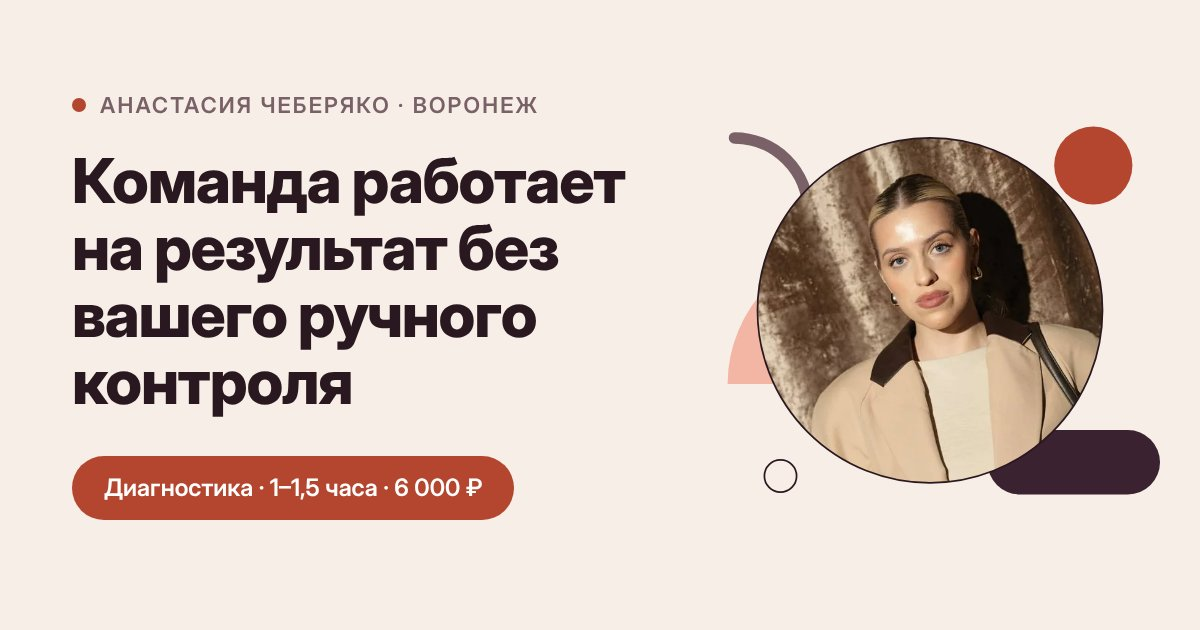
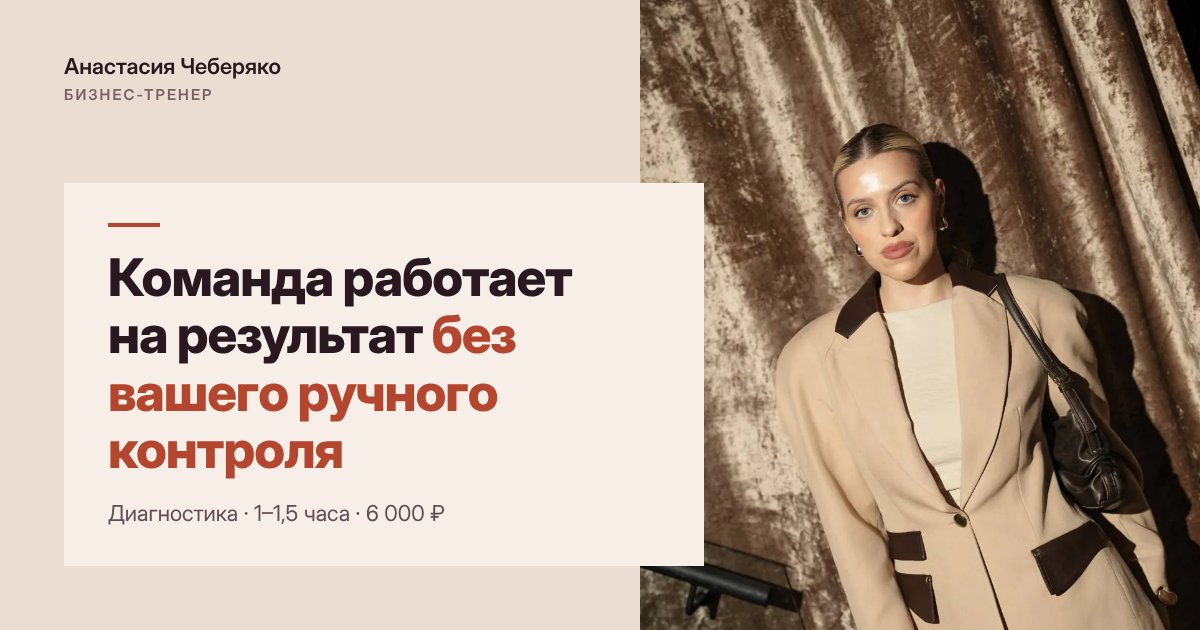
Add files via upload

diff --git a/index.html b/index.html
@@ -3,7 +3,7 @@
 <head>
 <meta charset="utf-8">
 <meta name="viewport" content="width=device-width, initial-scale=1">
-<title>Анастасия Чеберяко — бизнес-тренер, Воронеж</title>
+<title>Анастасия Чеберяко — бизнес-тренер</title>
 <meta name="description" content="Команда работает на результат без вашего ручного контроля. Обучение, стандарты и инструменты управления. Диагностика 1–1,5 часа, 6 000 ₽.">
 <link rel="canonical" href="https://cheberyako.github.io/">
 <meta name="theme-color" content="#F6EEE7">
@@ -12,7 +12,7 @@
 <meta property="og:type" content="website">
 <meta property="og:locale" content="ru_RU">
 <meta property="og:site_name" content="Анастасия Чеберяко">
-<meta property="og:title" content="Анастасия Чеберяко — бизнес-тренер, Воронеж">
+<meta property="og:title" content="Анастасия Чеберяко — бизнес-тренер">
 <meta property="og:description" content="Команда работает на результат без вашего ручного контроля. Обучение, стандарты и инструменты управления. Диагностика 1–1,5 часа, 6 000 ₽.">
 <meta property="og:url" content="https://cheberyako.github.io/">
 <meta property="og:image" content="https://cheberyako.github.io/og-cover.jpg">
@@ -71,8 +71,6 @@
   /* 1. Первый экран */
   main{padding-top:clamp(20px,5vw,56px)}
   .hero{display:grid;gap:24px;align-items:center}
-  .hero-art{width:100%;max-width:300px;justify-self:center}
-  .hero-art svg{width:100%;height:auto;display:block;overflow:visible;aspect-ratio:1}
   .hero h1{font-size:clamp(30px,5.4vw,56px);max-width:16ch}
   .hero .lead{margin:18px 0 28px;color:var(--muted-d)}
   .hero .who{font-size:15px;align-items:flex-start;line-height:1.5}
@@ -81,7 +79,7 @@
   .rec{margin-top:10px;font-size:16px;display:flex;gap:10px;align-items:center}
   .rec::before{content:"";width:28px;height:12px;border-radius:999px;background:var(--peach);flex:none}
   @media (max-width:819px){.hero-cta,.card .btn.main,.contacts .btn.main{width:100%;padding:0 14px;gap:10px;white-space:nowrap}.card .btn.main,.contacts .btn.main{font-size:16px}.card{padding:28px 22px}}
-  @media (min-width:820px){.hero{grid-template-columns:1.25fr 1fr;gap:48px}.hero-art{order:2;max-width:420px}}
+  @media (min-width:820px){.hero{grid-template-columns:1.25fr 1fr;gap:48px}}
 
   /* Карточки */
   .card{background:#fff;border-radius:32px;padding:clamp(26px,5.5vw,52px)}
@@ -212,6 +210,38 @@
   @media (min-width:820px){.sticky{left:auto;right:24px;bottom:24px}.sticky .btn{width:auto}}
 
   @media (max-width:759px){.contacts .deco:first-of-type{display:none}.contacts .deco:last-of-type{top:auto!important;bottom:-26px;right:-26px!important}}
+  /* Первый экран: фото во всю ширину, поверх него имя сверху и карточка с фразой */
+  .hero{display:block}
+  .hx-media{position:relative;margin:0 -22px;height:clamp(560px,86svh,780px);overflow:hidden;background:var(--sand)}
+  .hx-media img{position:absolute;inset:0;width:100%;height:100%;object-fit:cover;object-position:50% 18%;display:block}
+  .hx-top{position:absolute;top:0;left:0;right:0;display:flex;justify-content:space-between;align-items:center;padding:14px 22px;color:#FBF7F3;text-shadow:0 1px 10px rgba(42,24,32,.45)}
+  .hx-top span{font-weight:600;font-size:16px;letter-spacing:.02em}
+  .hx-top a{font-weight:600;font-size:16px;min-height:44px;display:inline-flex;align-items:center;text-decoration:underline;text-underline-offset:5px;text-decoration-thickness:1px}
+  .hx-card{position:absolute;left:22px;right:22px;bottom:22px;background:var(--bg);padding:26px 24px 24px}
+  .hx-card h1.hook{font-size:clamp(26px,6.6vw,46px);line-height:1.12;max-width:18ch}
+  .hx-card .who{margin:18px 0 0}
+  .hx-top .hx-name{display:flex;flex-direction:column;line-height:1.25}
+  .hx-top small{font-size:13px;font-weight:600;letter-spacing:.12em;text-transform:uppercase;opacity:.9;margin-top:3px}
+  .hx-lead{margin-top:16px;font-size:clamp(16px,2vw,19px);line-height:1.45;color:var(--muted-d);max-width:34ch}
+  .hx-card h1.hook em{font-style:normal;color:var(--rust)}
+  .hx-card h1.hook::before{content:"";display:block;width:44px;height:3px;background:var(--rust);margin-bottom:20px}
+  .hx-media::before{content:"";position:absolute;left:0;right:0;top:0;height:150px;z-index:1;pointer-events:none;background:linear-gradient(to bottom,rgba(42,24,32,.5),rgba(42,24,32,0))}
+  .hx-top,.hx-card{z-index:2}
+  .hero-text{padding-top:28px}
+  .hero-text .lead{margin-top:0}
+  @media (max-width:819px){main{padding-top:0}}
+  @media (min-width:820px){
+    main{padding-top:24px}
+    .hx-media{margin:0;height:clamp(560px,82vh,720px)}
+    .hx-media img{left:auto;width:62%}
+    .hx-media::before{left:38%}
+    .hx-top span{color:var(--ink);text-shadow:none}
+    .hx-top{padding:20px 32px}
+    .hx-card{left:40px;right:auto;bottom:40px;width:min(560px,60%);padding:36px 36px 32px}
+    .hero-text{display:flex;align-items:center;flex-wrap:wrap;gap:12px 28px;padding-top:36px}
+    .hero-text .cta-note{margin:0}
+    .hx-top small{color:var(--muted)}
+  }
   footer{text-align:center;color:var(--muted);font-size:16px;padding:0 22px 40px}
   footer details{max-width:640px;margin:6px auto 0;text-align:left}
   footer summary{cursor:pointer;display:flex;align-items:center;justify-content:center;min-height:48px;text-decoration:underline;text-underline-offset:4px}
@@ -224,25 +254,15 @@
 
   <!-- Первый экран: польза, главная кнопка -->
   <header class="hero">
-    <div class="hero-art">
-      <svg viewBox="0 0 400 400" width="400" height="400" xmlns="http://www.w3.org/2000/svg" role="img" aria-label="Анастасия Чеберяко, бизнес-тренер">
-        <defs><clipPath id="ph"><circle cx="200" cy="196" r="150"/></clipPath></defs>
-        <path class="shape" d="M24 260a120 120 0 0 1 240 0z" fill="#F3B6A4"/>
-        <circle class="shape" cx="342" cy="70" r="34" fill="#B4452F"/>
-        <rect class="shape" x="250" y="300" width="150" height="56" rx="28" fill="#3A2230"/>
-        <path class="shape" d="M30 46a64 64 0 0 1 64 64" fill="none" stroke="#7A6168" stroke-width="10" stroke-linecap="round"/>
-        <g class="photo">
-          <circle cx="200" cy="196" r="150" fill="#EBDDD2"/>
-          <image href="portrait.webp" x="50" y="46" width="300" height="300" clip-path="url(#ph)" preserveAspectRatio="xMidYMid slice"/>
-          <circle cx="200" cy="196" r="150" fill="none" stroke="#2A1820" stroke-width="1.5"/>
-        </g>
-        <circle class="shape" cx="70" cy="340" r="14" fill="none" stroke="#2A1820" stroke-width="1.5"/>
-      </svg>
+    <div class="hx-media">
+      <img src="portrait.webp" alt="Анастасия Чеберяко, бизнес-тренер" width="900" height="1350" fetchpriority="high" decoding="async">
+      <div class="hx-top"><span class="hx-name">Анастасия Чеберяко<small>Бизнес-тренер</small></span><a href="https://t.me/cheberyaschko?text=%D0%97%D0%B4%D1%80%D0%B0%D0%B2%D1%81%D1%82%D0%B2%D1%83%D0%B9%D1%82%D0%B5%2C%20%D0%90%D0%BD%D0%B0%D1%81%D1%82%D0%B0%D1%81%D0%B8%D1%8F%21%20%D0%A5%D0%BE%D1%87%D1%83%20%D0%B7%D0%B0%D0%BF%D0%B8%D1%81%D0%B0%D1%82%D1%8C%D1%81%D1%8F%20%D0%BD%D0%B0%20%D0%B4%D0%B8%D0%B0%D0%B3%D0%BD%D0%BE%D1%81%D1%82%D0%B8%D0%BA%D1%83%20%D0%B1%D0%B8%D0%B7%D0%BD%D0%B5%D1%81%D0%B0%20%286%20000%20%E2%82%BD%29." target="_blank" rel="noopener">Написать</a></div>
+      <div class="hx-card">
+        <h1 class="hook">Команда работает на&nbsp;результат <em>без вашего ручного контроля</em></h1>
+        <p class="hx-lead">Обучение, стандарты и&nbsp;инструменты управления для собственников и&nbsp;руководителей.</p>
+      </div>
     </div>
-    <div>
-      <div class="label who"><i></i><span>Анастасия Чеберяко<br>бизнес-тренер · Воронеж</span></div>
-      <h1>Команда работает на&nbsp;результат без вашего ручного контроля</h1>
-      <p class="lead">Обучение, стандарты и&nbsp;инструменты управления для собственников и&nbsp;руководителей.</p>
+    <div class="hero-text">
       <a class="btn main hero-cta" href="https://t.me/cheberyaschko?text=%D0%97%D0%B4%D1%80%D0%B0%D0%B2%D1%81%D1%82%D0%B2%D1%83%D0%B9%D1%82%D0%B5%2C%20%D0%90%D0%BD%D0%B0%D1%81%D1%82%D0%B0%D1%81%D0%B8%D1%8F%21%20%D0%A5%D0%BE%D1%87%D1%83%20%D0%B7%D0%B0%D0%BF%D0%B8%D1%81%D0%B0%D1%82%D1%8C%D1%81%D1%8F%20%D0%BD%D0%B0%20%D0%B4%D0%B8%D0%B0%D0%B3%D0%BD%D0%BE%D1%81%D1%82%D0%B8%D0%BA%D1%83%20%D0%B1%D0%B8%D0%B7%D0%BD%D0%B5%D1%81%D0%B0%20%286%20000%20%E2%82%BD%29." target="_blank" rel="noopener">
         <svg viewBox="0 0 24 24" fill="none" stroke="currentColor" stroke-width="1.6" stroke-linejoin="round" aria-hidden="true"><path d="M21 4L3 11l6 2.5M21 4l-3 16-9-6.5M21 4L9 13.5V19l3-3"/></svg> Получить план для команды
       </a>
@@ -471,7 +491,7 @@
 </div>
 
 <footer>
-  Анастасия Чеберяко · бизнес-тренер · Воронеж<br>
+  Анастасия Чеберяко · бизнес-тренер<br>
   Сайт не использует cookie и&nbsp;не собирает персональные данные.
   <details>
     <summary>Политика конфиденциальности</summary>
@@ -509,7 +529,7 @@ window.addEventListener('DOMContentLoaded', function(){
   if (window.matchMedia && matchMedia('(prefers-reduced-motion: reduce)').matches) return;
   gsap.registerPlugin(ScrollTrigger);
 
-  gsap.from('.hero-art .shape', {y: 30, opacity: 0, scale: .9, transformOrigin: '50% 50%', duration: 1.2, ease: 'power3.out', stagger: .08});
+  gsap.from('.hx-card', {y: 30, opacity: 0, duration: 1.1, ease: 'power3.out', delay: .15});
 
   var below = gsap.utils.toArray('.reveal').filter(function(el){ return el.getBoundingClientRect().top > innerHeight; });
   gsap.set(below, {y: 26, opacity: 0});
